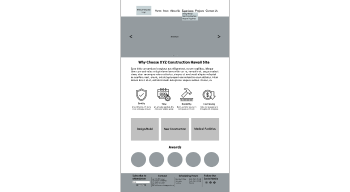
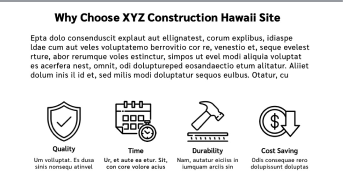
Add files via upload

Changed region(s): [[0.0, 0.0, 1.0, 1.0], [0.7246, 0.75, 0.8986, 0.9062], [0.7536, 0.5312, 0.8696, 0.7188]]

diff --git a/css/style.css b/css/style.css
@@ -36,7 +36,7 @@ Global Styles and UI Components
 
 footer {
     background: url(/images/footer-palmtrees.png);
-    height: 35vh;
+    height: 40vh;
     justify-content: center;
     align-items: center;
     text-align: center;
@@ -145,7 +145,7 @@ Page-Specific
 
 .hero {
     background: url(/images/Hero-hawaii.png);
-    height: 45vh;
+    height: 75vh;
     display: flex;
     justify-content: center;
     align-items: center;
@@ -168,7 +168,7 @@ Page-Specific
 
 .portfoliohero {
     background: url(/images/portfoliohero.png);
-    height: 45vh;
+    height: 75vh;
     display: flex;
     justify-content: center;
     align-items: center;
@@ -181,26 +181,28 @@ Page-Specific
     /*Card Specifics */
 
     .card {
-        height: 575px;
-        /* Set a fixed height for all cards */
-        display: flex;
-        flex-direction: column;
-        justify-content: space-between;
-        /* Align items within the card body */
+        display: flex; /* Use flexbox for the card itself */
+        flex-direction: column; /* Stack items vertically */
+        height: 100%; /* Allow cards to fill available height */
     }
-
-    .card-body {
-        display: flex;
-        flex-direction: column;
-        flex-grow: 1;
-        /* Take up remaining space */
-    }
-
+    
     .card-img-top {
-        object-fit: cover;
-        /* Ensures images cover the space properly */
-        max-height: 500px;
-        /* Set a maximum height for images */
-        width: 100%;
-        /* Ensure images take the full width of the container */
+        width: 100%; /* Ensure the image takes the full width of the card */
+        height: auto; /* Maintain the aspect ratio of the image */
+        max-height: 200px; /* Set a maximum height for the image */
+        object-fit: cover; /* Crops the image while preserving aspect ratio */
+    }
+    
+    .card-body {
+        flex-grow: 1; /* Ensure the card body takes the remaining space */
+        display: flex;
+        flex-direction: column; /* Stack items vertically */
+        justify-content: space-between; /* Space between elements */
+    }
+    
+    .col {
+        display: flex; /* Adds flexbox to column */
+        flex: 1; /* Allows all columns to grow equally */
+        margin: 10px; /* Margins around columns for spacing */
+        height: 100%; /* Make sure columns are all the same height */
     }
